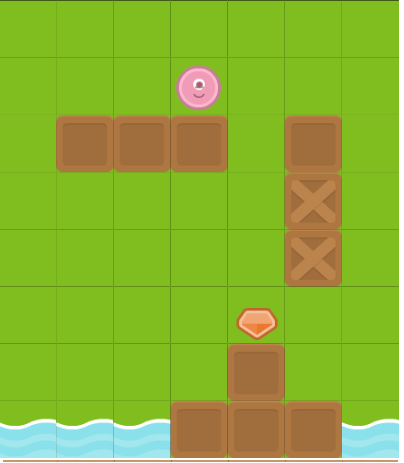
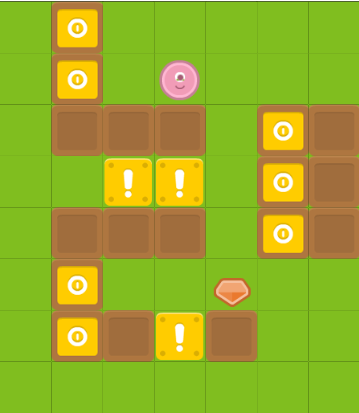
last lebvvel 4-2

diff --git a/exercices/2019/e-4-2/task.js b/exercices/2019/e-4-2/task.js
@@ -18,6 +18,12 @@ function initTask(subTask) {
         team: 0,
         zOrder: 3
       },
+      gris: {
+        num: 1,
+        img: "../images/fonds/gris.png",
+        side: cellSide,
+        isObstacle: false
+      },
       cle: {
         num: 2,
         img: "../images/objects/fond_gris/cle.png",
@@ -25,12 +31,6 @@ function initTask(subTask) {
         category: "key",
         isObstacle: false,
         isTransportable: true
-      },
-      gris: {
-        num: 1,
-        img: "../images/fonds/gris.png",
-        side: cellSide,
-        isObstacle: false
       },
       mauve: {
         num: 7,
@@ -63,14 +63,36 @@ function initTask(subTask) {
         img: "../images/objects/fond_gris/mouche.png",
         side: cellSide,
         isObstacle: false
+      },
+      caisse: {
+        num: 10,
+        img: "../images/objects/fond_gris/caise.png",
+        side: cellSide,
+        isObstacle: false,
+        category: "platform"
+      },
+      diamant: {
+        num: 11,
+        img: "../images/objects/fond_gris/diamant_vert.png",
+        side: cellSide,
+        isObstacle: false,
+        category: "diamant",
+        isTransportable: true
       }
     },
 
-    maxInstructions: 7,
+    maxInstructions: 18,
     includeBlocks: {
       groupByCategory: false,
       generatedBlocks: {
-        robot: ["forward", "pickTransportable", "hasAKey"]
+        robot: [
+          "forward",
+          "turnAround",
+          "jump",
+          "pickTransportable",
+          "hasAKey",
+          "hasADiamant"
+        ]
       },
       standardBlocks: {
         includeAll: false,
@@ -95,12 +117,10 @@ function initTask(subTask) {
           throw "Bozok n'est pas sur la porte";
         }
 
-        var hasCles =
-          context.nbTransportedItems === 4 &&
-          context.transportedItem.category === "key";
-        if (!hasCles) {
+        var asAllObjects = context.nbTransportedItems === 7;
+        if (!asAllObjects) {
           context.success = false;
-          throw "Bozok n'a pas récupré toutes les clés";
+          throw "Bozok n'a pas récupré toutes les clés ou dimants";
         }
         context.success = true;
         throw "Bravo ! Mission accomplie";
@@ -123,16 +143,16 @@ function initTask(subTask) {
       {
         tiles: [
           [1, 1, 1, 1, 1, 1, 1, 1, 1, 1, 1],
-          [1, 1, 9, 1, 1, 1, 1, 1, 1, 1, 1],
+          [1, 1, 1, 5, 1, 1, 1, 1, 1, 1, 1],
+          [1, 1, 1, 4, 1, 1, 1, 1, 1, 1, 1],
+          [1, 1, 10, 10, 1, 1, 1, 1, 1, 1, 1],
+          [1, 1, 11, 1, 1, 2, 11, 1, 1, 1, 1],
+          [1, 1, 10, 10, 10, 10, 10, 10, 10, 1, 1],
+          [1, 1, 1, 11, 1, 2, 11, 2, 1, 1, 1],
           [8, 8, 8, 8, 8, 8, 8, 8, 8, 8, 8],
-          [1, 1, 1, 1, 1, 1, 1, 1, 1, 1, 1],
-          [8, 8, 8, 8, 8, 8, 8, 8, 8, 8, 8],
-          [1, 2, 1, 2, 1, 1, 2, 2, 2, 1, 4],
-          [8, 8, 8, 8, 8, 8, 8, 8, 8, 8, 8],
-          [7, 7, 7, 7, 7, 7, 7, 7, 7, 7, 7],
           [7, 7, 7, 7, 7, 7, 7, 7, 7, 7, 7]
         ],
-        initItems: [{ row: 5, col: 0, dir: 0, type: "robot" }]
+        initItems: [{ row: 6, col: 0, dir: 0, type: "robot" }]
       }
     ]
   };

diff --git a/exercices/2019/e-1-1/task.js b/exercices/2019/e-1-1/task.js
@@ -72,9 +72,9 @@ function initTask(subTask) {
         isObstacle: true
       },
 
-      vertObstacle: {
+      exclamation: {
         num: 9,
-        img: "../images/fonds/vert.png",
+        img: "../images/objects/fond_vert/exclamation_jaune.png",
         side: cellSide,
         isObstacle: true
       }
@@ -124,14 +124,14 @@ function initTask(subTask) {
     easy: [
       {
         tiles: [
-          [1, 1, 1, 1, 1, 1, 1],
-          [1, 1, 1, 1, 1, 1, 1],
-          [1, 2, 2, 2, 1, 2, 1],
-          [1, 1, 1, 1, 1, 3, 1],
-          [1, 1, 1, 1, 1, 3, 1],
-          [1, 1, 1, 1, 5, 1, 1],
-          [1, 1, 1, 1, 2, 1, 1],
-          [4, 4, 4, 2, 2, 2, 4]
+          [1, 6, 1, 1, 1, 1, 1],
+          [1, 6, 1, 1, 1, 1, 1],
+          [1, 2, 2, 2, 1, 6, 2],
+          [1, 1, 9, 9, 1, 6, 2],
+          [1, 2, 2, 2, 1, 6, 2],
+          [1, 6, 1, 1, 5, 1, 1],
+          [1, 6, 2, 9, 2, 1, 1],
+          [1, 1, 1, 1, 1, 1, 1]
         ],
         initItems: [{ row: 1, col: 3, dir: 1, type: "robot" }]
       }

diff --git a/exercices/2019/e-1-4/index.html b/exercices/2019/e-1-4/index.html
@@ -59,12 +59,12 @@
       <div id="tabsContainer"></div>
       <div id="taskContent" style="text-align:left;position:relative">
         <div id="taskIntro" style="width: 50%">
-          <p>Balouk doit aller jusqu'au ponit vert</p>
+          <p>Balouk doit aller jusqu'au point vert</p>
           <p>Il ne peut QUE avancer tout droit ou sauter des plateformes !</p>
         </div>
 
         <div id="taskIntro" style="width: 50%">
-          <p>Pour sauter, Balouk doit etre juste en dessus d'une plateforme</p>
+          <p>Pour sauter, Balouk doit être juste au dessus d'une plateforme</p>
           <p>Il sautera au dessus de cette plateforme</p>
           <img src="howToJump.png" />
         </div>

diff --git a/exercices/2019/e-4-2/index.html b/exercices/2019/e-4-2/index.html
@@ -59,7 +59,10 @@
       <div id="tabsContainer"></div>
       <div id="taskContent" style="text-align:left;position:relative">
         <div id="taskIntro" style="width: 50%">
-          <p>TODO</p>
+          <p>
+            Aide Balouk à ramasser toutes les clés et les diamants, et à
+            rejoindre la porte !
+          </p>
         </div>
 
         <div id="gridContainer"></div>

diff --git a/exercices/2019/e-2-4/index.html b/exercices/2019/e-2-4/index.html
@@ -62,7 +62,7 @@
           <p>
             Aide Goumo à récupérer la Clé des Champs et à ouvrir toutes les
             serrures. Par chance, une seule clé suffit pour ouvrir toutes les
-            serrures ;
+            serrures
           </p>
         </div>
         <div id="gridContainer"></div>

diff --git a/exercices/2019/e-4-3/task.js b/exercices/2019/e-4-3/task.js
@@ -83,7 +83,7 @@ function initTask(subTask) {
       }
     },
 
-    maxInstructions: 11,
+    maxInstructions: 14,
     includeBlocks: {
       groupByCategory: false,
       generatedBlocks: {
